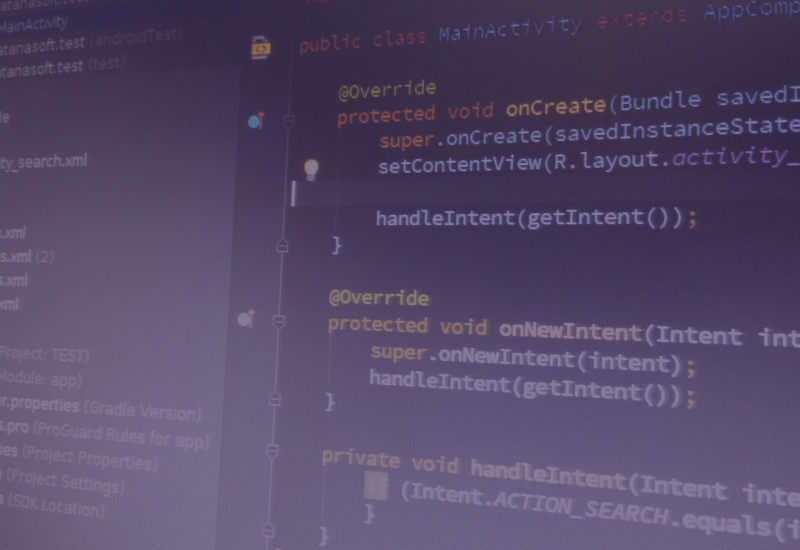
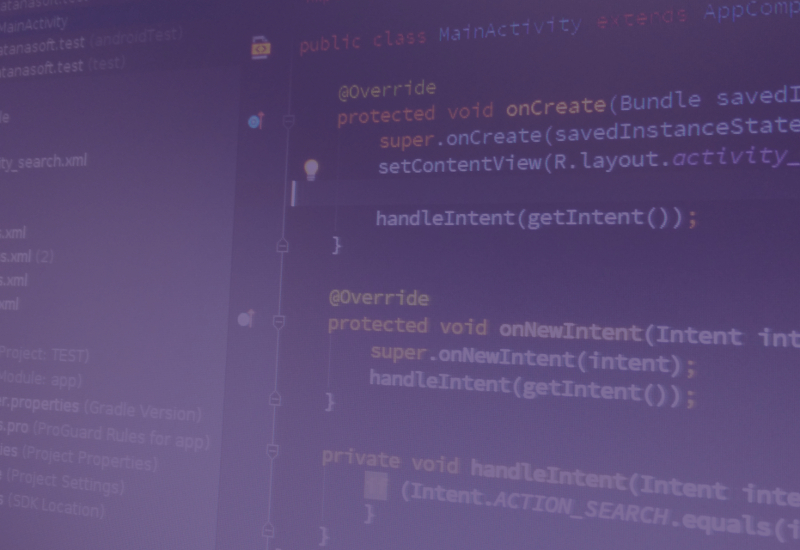
Add email subscription Correction of text Background darker

diff --git a/js/jquery-migrate-1.4.1.min.js b/js/jquery-migrate-1.4.1.min.js
@@ -1,0 +1,2 @@
+/*! jQuery Migrate v1.4.1 | (c) jQuery Foundation and other contributors | jquery.org/license */
+"undefined"==typeof jQuery.migrateMute&&(jQuery.migrateMute=!0),function(a,b,c){function d(c){var d=b.console;f[c]||(f[c]=!0,a.migrateWarnings.push(c),d&&d.warn&&!a.migrateMute&&(d.warn("JQMIGRATE: "+c),a.migrateTrace&&d.trace&&d.trace()))}function e(b,c,e,f){if(Object.defineProperty)try{return void Object.defineProperty(b,c,{configurable:!0,enumerable:!0,get:function(){return d(f),e},set:function(a){d(f),e=a}})}catch(g){}a._definePropertyBroken=!0,b[c]=e}a.migrateVersion="1.4.1";var f={};a.migrateWarnings=[],b.console&&b.console.log&&b.console.log("JQMIGRATE: Migrate is installed"+(a.migrateMute?"":" with logging active")+", version "+a.migrateVersion),a.migrateTrace===c&&(a.migrateTrace=!0),a.migrateReset=function(){f={},a.migrateWarnings.length=0},"BackCompat"===document.compatMode&&d("jQuery is not compatible with Quirks Mode");var g=a("<input/>",{size:1}).attr("size")&&a.attrFn,h=a.attr,i=a.attrHooks.value&&a.attrHooks.value.get||function(){return null},j=a.attrHooks.value&&a.attrHooks.value.set||function(){return c},k=/^(?:input|button)$/i,l=/^[238]$/,m=/^(?:autofocus|autoplay|async|checked|controls|defer|disabled|hidden|loop|multiple|open|readonly|required|scoped|selected)$/i,n=/^(?:checked|selected)$/i;e(a,"attrFn",g||{},"jQuery.attrFn is deprecated"),a.attr=function(b,e,f,i){var j=e.toLowerCase(),o=b&&b.nodeType;return i&&(h.length<4&&d("jQuery.fn.attr( props, pass ) is deprecated"),b&&!l.test(o)&&(g?e in g:a.isFunction(a.fn[e])))?a(b)[e](f):("type"===e&&f!==c&&k.test(b.nodeName)&&b.parentNode&&d("Can't change the 'type' of an input or button in IE 6/7/8"),!a.attrHooks[j]&&m.test(j)&&(a.attrHooks[j]={get:function(b,d){var e,f=a.prop(b,d);return f===!0||"boolean"!=typeof f&&(e=b.getAttributeNode(d))&&e.nodeValue!==!1?d.toLowerCase():c},set:function(b,c,d){var e;return c===!1?a.removeAttr(b,d):(e=a.propFix[d]||d,e in b&&(b[e]=!0),b.setAttribute(d,d.toLowerCase())),d}},n.test(j)&&d("jQuery.fn.attr('"+j+"') might use property instead of attribute")),h.call(a,b,e,f))},a.attrHooks.value={get:function(a,b){var c=(a.nodeName||"").toLowerCase();return"button"===c?i.apply(this,arguments):("input"!==c&&"option"!==c&&d("jQuery.fn.attr('value') no longer gets properties"),b in a?a.value:null)},set:function(a,b){var c=(a.nodeName||"").toLowerCase();return"button"===c?j.apply(this,arguments):("input"!==c&&"option"!==c&&d("jQuery.fn.attr('value', val) no longer sets properties"),void(a.value=b))}};var o,p,q=a.fn.init,r=a.find,s=a.parseJSON,t=/^\s*</,u=/\[(\s*[-\w]+\s*)([~|^$*]?=)\s*([-\w#]*?#[-\w#]*)\s*\]/,v=/\[(\s*[-\w]+\s*)([~|^$*]?=)\s*([-\w#]*?#[-\w#]*)\s*\]/g,w=/^([^<]*)(<[\w\W]+>)([^>]*)$/;a.fn.init=function(b,e,f){var g,h;return b&&"string"==typeof b&&!a.isPlainObject(e)&&(g=w.exec(a.trim(b)))&&g[0]&&(t.test(b)||d("$(html) HTML strings must start with '<' character"),g[3]&&d("$(html) HTML text after last tag is ignored"),"#"===g[0].charAt(0)&&(d("HTML string cannot start with a '#' character"),a.error("JQMIGRATE: Invalid selector string (XSS)")),e&&e.context&&e.context.nodeType&&(e=e.context),a.parseHTML)?q.call(this,a.parseHTML(g[2],e&&e.ownerDocument||e||document,!0),e,f):(h=q.apply(this,arguments),b&&b.selector!==c?(h.selector=b.selector,h.context=b.context):(h.selector="string"==typeof b?b:"",b&&(h.context=b.nodeType?b:e||document)),h)},a.fn.init.prototype=a.fn,a.find=function(a){var b=Array.prototype.slice.call(arguments);if("string"==typeof a&&u.test(a))try{document.querySelector(a)}catch(c){a=a.replace(v,function(a,b,c,d){return"["+b+c+'"'+d+'"]'});try{document.querySelector(a),d("Attribute selector with '#' must be quoted: "+b[0]),b[0]=a}catch(e){d("Attribute selector with '#' was not fixed: "+b[0])}}return r.apply(this,b)};var x;for(x in r)Object.prototype.hasOwnProperty.call(r,x)&&(a.find[x]=r[x]);a.parseJSON=function(a){return a?s.apply(this,arguments):(d("jQuery.parseJSON requires a valid JSON string"),null)},a.uaMatch=function(a){a=a.toLowerCase();var b=/(chrome)[ \/]([\w.]+)/.exec(a)||/(webkit)[ \/]([\w.]+)/.exec(a)||/(opera)(?:.*version|)[ \/]([\w.]+)/.exec(a)||/(msie) ([\w.]+)/.exec(a)||a.indexOf("compatible")<0&&/(mozilla)(?:.*? rv:([\w.]+)|)/.exec(a)||[];return{browser:b[1]||"",version:b[2]||"0"}},a.browser||(o=a.uaMatch(navigator.userAgent),p={},o.browser&&(p[o.browser]=!0,p.version=o.version),p.chrome?p.webkit=!0:p.webkit&&(p.safari=!0),a.browser=p),e(a,"browser",a.browser,"jQuery.browser is deprecated"),a.boxModel=a.support.boxModel="CSS1Compat"===document.compatMode,e(a,"boxModel",a.boxModel,"jQuery.boxModel is deprecated"),e(a.support,"boxModel",a.support.boxModel,"jQuery.support.boxModel is deprecated"),a.sub=function(){function b(a,c){return new b.fn.init(a,c)}a.extend(!0,b,this),b.superclass=this,b.fn=b.prototype=this(),b.fn.constructor=b,b.sub=this.sub,b.fn.init=function(d,e){var f=a.fn.init.call(this,d,e,c);return f instanceof b?f:b(f)},b.fn.init.prototype=b.fn;var c=b(document);return d("jQuery.sub() is deprecated"),b},a.fn.size=function(){return d("jQuery.fn.size() is deprecated; use the .length property"),this.length};var y=!1;a.swap&&a.each(["height","width","reliableMarginRight"],function(b,c){var d=a.cssHooks[c]&&a.cssHooks[c].get;d&&(a.cssHooks[c].get=function(){var a;return y=!0,a=d.apply(this,arguments),y=!1,a})}),a.swap=function(a,b,c,e){var f,g,h={};y||d("jQuery.swap() is undocumented and deprecated");for(g in b)h[g]=a.style[g],a.style[g]=b[g];f=c.apply(a,e||[]);for(g in b)a.style[g]=h[g];return f},a.ajaxSetup({converters:{"text json":a.parseJSON}});var z=a.fn.data;a.fn.data=function(b){var e,f,g=this[0];return!g||"events"!==b||1!==arguments.length||(e=a.data(g,b),f=a._data(g,b),e!==c&&e!==f||f===c)?z.apply(this,arguments):(d("Use of jQuery.fn.data('events') is deprecated"),f)};var A=/\/(java|ecma)script/i;a.clean||(a.clean=function(b,c,e,f){c=c||document,c=!c.nodeType&&c[0]||c,c=c.ownerDocument||c,d("jQuery.clean() is deprecated");var g,h,i,j,k=[];if(a.merge(k,a.buildFragment(b,c).childNodes),e)for(i=function(a){return!a.type||A.test(a.type)?f?f.push(a.parentNode?a.parentNode.removeChild(a):a):e.appendChild(a):void 0},g=0;null!=(h=k[g]);g++)a.nodeName(h,"script")&&i(h)||(e.appendChild(h),"undefined"!=typeof h.getElementsByTagName&&(j=a.grep(a.merge([],h.getElementsByTagName("script")),i),k.splice.apply(k,[g+1,0].concat(j)),g+=j.length));return k});var B=a.event.add,C=a.event.remove,D=a.event.trigger,E=a.fn.toggle,F=a.fn.live,G=a.fn.die,H=a.fn.load,I="ajaxStart|ajaxStop|ajaxSend|ajaxComplete|ajaxError|ajaxSuccess",J=new RegExp("\\b(?:"+I+")\\b"),K=/(?:^|\s)hover(\.\S+|)\b/,L=function(b){return"string"!=typeof b||a.event.special.hover?b:(K.test(b)&&d("'hover' pseudo-event is deprecated, use 'mouseenter mouseleave'"),b&&b.replace(K,"mouseenter$1 mouseleave$1"))};a.event.props&&"attrChange"!==a.event.props[0]&&a.event.props.unshift("attrChange","attrName","relatedNode","srcElement"),a.event.dispatch&&e(a.event,"handle",a.event.dispatch,"jQuery.event.handle is undocumented and deprecated"),a.event.add=function(a,b,c,e,f){a!==document&&J.test(b)&&d("AJAX events should be attached to document: "+b),B.call(this,a,L(b||""),c,e,f)},a.event.remove=function(a,b,c,d,e){C.call(this,a,L(b)||"",c,d,e)},a.each(["load","unload","error"],function(b,c){a.fn[c]=function(){var a=Array.prototype.slice.call(arguments,0);return"load"===c&&"string"==typeof a[0]?H.apply(this,a):(d("jQuery.fn."+c+"() is deprecated"),a.splice(0,0,c),arguments.length?this.bind.apply(this,a):(this.triggerHandler.apply(this,a),this))}}),a.fn.toggle=function(b,c){if(!a.isFunction(b)||!a.isFunction(c))return E.apply(this,arguments);d("jQuery.fn.toggle(handler, handler...) is deprecated");var e=arguments,f=b.guid||a.guid++,g=0,h=function(c){var d=(a._data(this,"lastToggle"+b.guid)||0)%g;return a._data(this,"lastToggle"+b.guid,d+1),c.preventDefault(),e[d].apply(this,arguments)||!1};for(h.guid=f;g<e.length;)e[g++].guid=f;return this.click(h)},a.fn.live=function(b,c,e){return d("jQuery.fn.live() is deprecated"),F?F.apply(this,arguments):(a(this.context).on(b,this.selector,c,e),this)},a.fn.die=function(b,c){return d("jQuery.fn.die() is deprecated"),G?G.apply(this,arguments):(a(this.context).off(b,this.selector||"**",c),this)},a.event.trigger=function(a,b,c,e){return c||J.test(a)||d("Global events are undocumented and deprecated"),D.call(this,a,b,c||document,e)},a.each(I.split("|"),function(b,c){a.event.special[c]={setup:function(){var b=this;return b!==document&&(a.event.add(document,c+"."+a.guid,function(){a.event.trigger(c,Array.prototype.slice.call(arguments,1),b,!0)}),a._data(this,c,a.guid++)),!1},teardown:function(){return this!==document&&a.event.remove(document,c+"."+a._data(this,c)),!1}}}),a.event.special.ready={setup:function(){this===document&&d("'ready' event is deprecated")}};var M=a.fn.andSelf||a.fn.addBack,N=a.fn.find;if(a.fn.andSelf=function(){return d("jQuery.fn.andSelf() replaced by jQuery.fn.addBack()"),M.apply(this,arguments)},a.fn.find=function(a){var b=N.apply(this,arguments);return b.context=this.context,b.selector=this.selector?this.selector+" "+a:a,b},a.Callbacks){var O=a.Deferred,P=[["resolve","done",a.Callbacks("once memory"),a.Callbacks("once memory"),"resolved"],["reject","fail",a.Callbacks("once memory"),a.Callbacks("once memory"),"rejected"],["notify","progress",a.Callbacks("memory"),a.Callbacks("memory")]];a.Deferred=function(b){var c=O(),e=c.promise();return c.pipe=e.pipe=function(){var b=arguments;return d("deferred.pipe() is deprecated"),a.Deferred(function(d){a.each(P,function(f,g){var h=a.isFunction(b[f])&&b[f];c[g[1]](function(){var b=h&&h.apply(this,arguments);b&&a.isFunction(b.promise)?b.promise().done(d.resolve).fail(d.reject).progress(d.notify):d[g[0]+"With"](this===e?d.promise():this,h?[b]:arguments)})}),b=null}).promise()},c.isResolved=function(){return d("deferred.isResolved is deprecated"),"resolved"===c.state()},c.isRejected=function(){return d("deferred.isRejected is deprecated"),"rejected"===c.state()},b&&b.call(c,c),c}}}(jQuery,window);

diff --git a/js/phplist.js b/js/phplist.js
@@ -1,0 +1,95 @@
+$(document).ready(function() {
+    var h = new Image();
+    h.src = waitImage;
+    $("#phplistsubscribeform").submit(function() {
+        var d = $("#emailaddress").val();
+        var e = /^([\w-\.]+@([\w-]+\.)+[\w-]{2,4})?$/;
+        var f = this.action;
+        ajaxaddress = f.replace(/subscribe/, 'asubscribe');
+        $('#phplistsubscriberesult').html('<img src="' + h.src + '" width="' + h.width + '" height="' + h.height + '" border="0" alt="Please wait" title="powered by phpList, www.phplist.com" />');
+        if (e.test(d)) {
+            var g = $.ajax({
+                type: 'POST',
+                url: ajaxaddress,
+                crossDomain: true,
+                data: "email=" + d,
+                success: function(a, b, c) {
+                    if (a.search(/FAIL/) >= 0) {
+                        document.location = f + "&email=" + d
+                    } else {
+                        $('#phplistsubscriberesult').html("<div id='subscribemessage'></div>");
+                        //$('#subscribemessage').html(a).hide().fadeIn(1500);
+                        $('#subscribemessage').html(thanksForSubscribing).hide().fadeIn(1500);
+                        $("#phplistsubscribeform").hide();
+                        document.cookie = "phplistsubscribed=yes"
+                    }
+                },
+                error: function(a, b, c) {
+                    document.location = f + "&email=" + d
+                }
+            })
+        } else {
+            document.location = f + "&email=" + d
+        }
+        return false
+    });
+    $("#emailaddress").val(pleaseEnter);
+    $("#emailaddress").focus(function() {
+        var v = $("#emailaddress").val();
+        if (v == pleaseEnter) {
+            $("#emailaddress").val("")
+        }
+    });
+    $("#emailaddress").blur(function() {
+        var v = $("#emailaddress").val();
+        if (v == "") {
+            $("#emailaddress").val(pleaseEnter)
+        }
+    });
+    var i = document.cookie;
+    if (i.indexOf('phplistsubscribed=yes') >= 0) {
+        $("#phplistsubscribeform").html(thanksForSubscribing)
+    }
+});
+
+$.ajaxTransport("+*", function(d, e, f) {
+    if (jQuery.browser.msie && window.XDomainRequest) {
+        var g;
+        return {
+            send: function(b, c) {
+                g = new XDomainRequest();
+                g.open("get", d.url + "&" + d.data);
+                g.onload = function() {
+                    if (this.contentType.match(/\/xml/)) {
+                        var a = new ActiveXObject("Microsoft.XMLDOM");
+                        a.async = false;
+                        a.loadXML(this.responseText);
+                        c(200, "success", [a])
+                    } else {
+                        c(200, "success", [this.responseText])
+                    }
+                };
+                g.ontimeout = function() {
+                    c(408, "error", ["The request timed out."])
+                };
+                g.onerror = function() {
+                    c(404, "error", ["The requested resource could not be found."])
+                };
+                g.send()
+            },
+            abort: function() {
+                if (g) g.abort()
+            }
+        }
+    }
+});
+
+if (pleaseEnter == undefined) {
+    var pleaseEnter = "Please enter your email"
+}
+if (thanksForSubscribing == undefined) {
+    var thanksForSubscribing = '<div class="subscribed">Thanks for subscribing. Please click the link in the confirmation email you will receive.</div>'
+}
+if (waitImage == undefined) {
+    var waitImage = 'https://s3.amazonaws.com/phplist/img/busy.gif'
+}

diff --git a/index.html b/index.html
@@ -13,7 +13,9 @@
     <link rel="stylesheet" href="./css/custom.css">
     <!-- Latest compiled and minified JavaScript -->
     <script src="./js/jquery-3.1.1.min.js"></script>
+    <script src="./js/jquery-migrate-1.4.1.min.js"></script>
     <script src="./js/bootstrap.min.js" integrity="sha384-Tc5IQib027qvyjSMfHjOMaLkfuWVxZxUPnCJA7l2mCWNIpG9mGCD8wGNIcPD7Txa" crossorigin="anonymous"></script>
+    <script type="text/javascript" src="./js/phplist.js"></script>
     <script src="./js/custom.js"></script>
 
     <!-- HTML5 Shim and Respond.js IE8 support of HTML5 elements and media queries -->
@@ -65,8 +67,22 @@
       <div class="container">
         <div class="col-lg-12">
           <img class="img-responsive center-block" src="./img/logo.png" alt="presentation">
-          <h1>Contribute with your ideas, your skills or make donation to build powerfull application</h1>
+          <h1>Contribute with your ideas, your skills or make donation to build powerful application</h1>
           <p class="lead">Product software is an art, requires a high level of engineering skills and artistic imagination.<br> We believe in quality and community for a better user experience</p>
+          <h2 class="email-title">Stay informed !</h2>
+
+          <script type="text/javascript">
+            var pleaseEnter = "Please enter your email";
+            var thanksForSubscribing = '<div class="subscribed">Thanks for subscribing.</div>';
+            var waitImage = './img/ajax-loader.gif'
+          </script>
+          <div id="phplistsubscriberesult"></div>
+          <form action="https://kunzisoft.hosted.phplist.com/lists/?p=subscribe&id=1" method="post" id="phplistsubscribeform">
+            <label class="email" for="emailaddress"><i class="fa fa-envelope"></i></label>
+            <input type="text" name="email" value="" id="emailaddress" />
+            <button class="btn btn-default" type="submit" id="phplistsubscribe">Subscribe</button>
+          </form>
+
         </div>
       </div>
     </div>
@@ -95,7 +111,7 @@
           </div>
           <div class="col-lg-4 col-sm-6">
             <h3><i class="fa fa-users"></i> Everyone collaborates</h3>
-            <p>We create for <strong>usable, reusable, beautyfull and ergonomic softwares</strong>. Translation, documentation, marketing, all trades can add their competence to the building.</p>
+            <p>We create for <strong>usable, reusable, beautiful and ergonomic softwares</strong>. Translation, documentation, marketing, all trades can add their competence to the building.</p>
           </div>
           <div class="col-lg-4 col-sm-6">
             <h3><i class="fa fa-graduation-cap"></i> Learn and build</h3>
@@ -107,7 +123,7 @@
           </div>
           <div class="col-lg-4 col-sm-6">
             <h3><i class="fa fa-github"></i> Open Source</h3>
-            <p>Better to create an open source project, anyone can contribute, <strong>resolve bugs, add features and increase security.</strong></p>
+            <p>Better to create an open source project, anyone can contribute, <strong>resolve bugs, add features and increase security.</strong>And you can always sell it</p>
           </div>
         </div>
       </div>

diff --git a/phpList_template.html b/phpList_template.html
@@ -1,0 +1,66 @@
+<html>
+<head>
+	<title></title>
+</head>
+<body>
+<div id="shell" style="margin: 0px; color: rgb(102, 102, 102); padding: 0px; text-align: center; width: 100%;">
+<table border="0" cellpadding="10" cellspacing="0" class="required" style="margin: 0px auto;" width="600">
+	<tbody>
+		<tr>
+			<td align="right" style="font-size: 14px; font-family: Arial; line-height: 1.3em; text-align: left;">
+			<p style="font-size: 14px; margin: 0px; line-height: 1.3em; font-family: Arial; padding: 0px; text-align: right;">&nbsp;</p>
+			</td>
+		</tr>
+	</tbody>
+</table>
+
+<table cellpadding="0" cellspacing="0" id="Box" style="margin: 0px auto; background: none repeat scroll 0% 0% rgb(255, 255, 255); color: rgb(102, 102, 102); padding: 0pt;" width="580">
+	<tbody>
+		<tr>
+			<td style="font-size: 14px; line-height: 1.3em; font-family: Arial; text-align: left;">
+			<table border="0" cellpadding="0" cellspacing="0" id="Header" style="background: none repeat scroll 0% 0% rgb(255, 255, 255);" width="600">
+				<tbody>
+					<tr valign="top">
+						<td style="font-size: 14px; line-height: 1.3em; font-family: Arial; text-align: left;"><a href="[WEBSITE]" title="[ORGANISATION_NAME]"><img alt="***" src="[LOGO:290]" /></a></td>
+					</tr>
+				</tbody>
+			</table>
+			<!--content table starts-->
+
+			<table border="0" cellpadding="0" cellspacing="0" class="content" style="background-color: rgb(255, 255, 255); color: rgb(102, 102, 102);" width="600">
+				<tbody>
+					<tr valign="top">
+						<td class="maincontent" style="font-size: 14px; font-family: Arial; line-height: 1.3em; text-align: left;">
+						<h1 style="font-size: 1.8em; margin: 1em 0pt; color: rgb(87, 164, 210); padding: 0pt; letter-spacing: -1px;"><span style="color:#9900cc;">[SUBJECT]</span></h1>
+
+						<p style="font-size: 14px; margin: 0.5em 0pt 1em; line-height: 1.3em; font-family: Arial; text-align: left;">[CONTENT]</p>
+						</td>
+					</tr>
+				</tbody>
+			</table>
+			<!--content table ends--><!--content table starts-->
+
+			<table border="0" cellpadding="0" cellspacing="0" class="content" style="background-color: rgb(255, 255, 255); color: rgb(102, 102, 102);" width="600">
+				<tbody>
+					<tr valign="top">
+						<td class="maincontent" style="font-size: 14px; font-family: Arial; line-height: 1.3em; text-align: left;">
+						<p style="font-size: 14px; margin: 0.5em 0pt 1em; line-height: 1.3em; font-family: Arial; text-align: left;">[FOOTER]</p>
+						</td>
+					</tr>
+				</tbody>
+			</table>
+			</td>
+		</tr>
+	</tbody>
+</table>
+<noscript>
+	<table cellspacing="0" border="0" class="required" style="margin: 0px auto;" width="600" cellpadding="10">
+		<tr>
+			<td align="right" style="font-size: 14px; font-family: Arial; line-height: 1.3em; text-align: left;">
+				<p style="font-size: 10px; margin: 0px; line-height: 1.3em; font-family: Arial; padding: 0px; text-align: right;"><a href="[UNSUBSCRIBEURL]" title="Unsubscribe" style="color: #777777; text-decoration: none;">Unsubscribe</a></p>
+			</td>
+		</tr>
+	</table>
+</noscript></div>
+</body>
+</html>

diff --git a/css/custom.css b/css/custom.css
@@ -12,6 +12,20 @@ body>.navbar {
 body>.navbar-transparent .navbar-nav>.open>a {
     background-color: transparent!important;
 }
+input[type=text] {
+    width: 60%;
+    padding: 12px 20px;
+    margin: 0 20px 0 20px;
+    box-sizing: border-box;
+}
+form .fa{
+    font-size: 30px;
+    padding-top: 10px;
+    color: #A95FEF;
+}
+.email-title {
+    color: #CDABFF;
+}
 }#home {
     padding-top: 0;
 }
@@ -27,7 +41,7 @@ body>.navbar-transparent .navbar-nav>.open>a {
     border-bottom: none;
 }
 .navbar-default .navbar-nav > li > .external-link {
-    color: #8521ff;
+    color: #661fa5;
 }
 .table-of-contents {
     margin-top: 1em;
